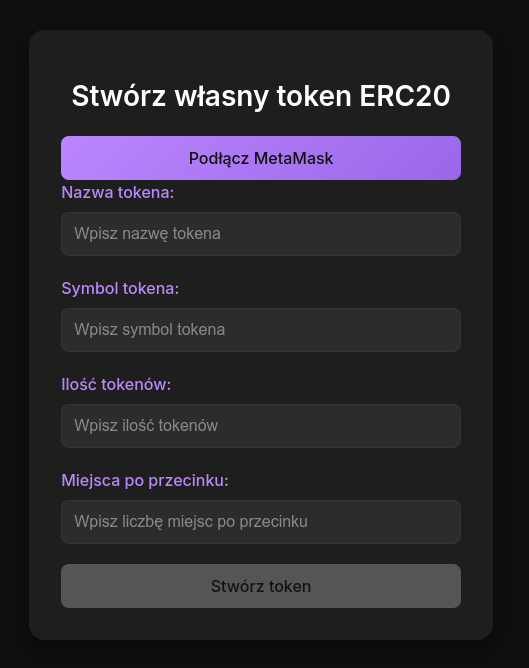
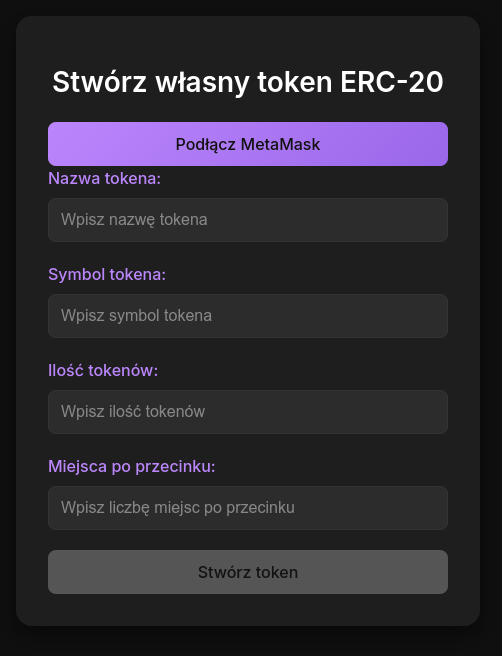
Modyfikacja tekstu.

diff --git a/src/components/CreateToken.tsx b/src/components/CreateToken.tsx
@@ -68,7 +68,7 @@ const CreateToken: React.FC = () => {
 
   return (
     <div className="create-token-container">
-      <h1>Stwórz własny token ERC20</h1>
+      <h1>Stwórz własny token ERC-20</h1>
       
       {!walletAddress ? (
         <button onClick={connectMetaMask} className="connect-button">
